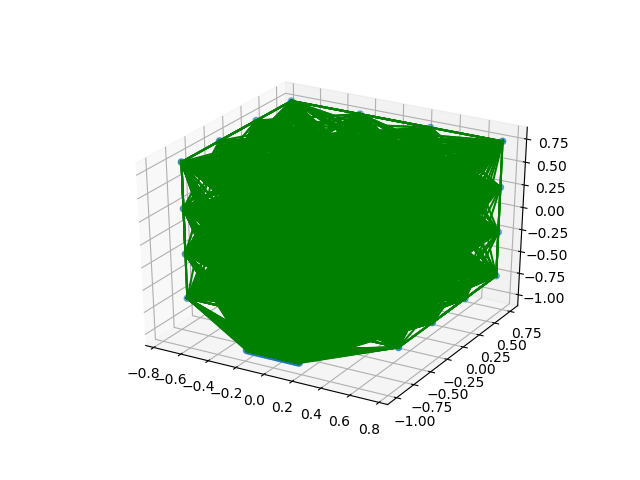
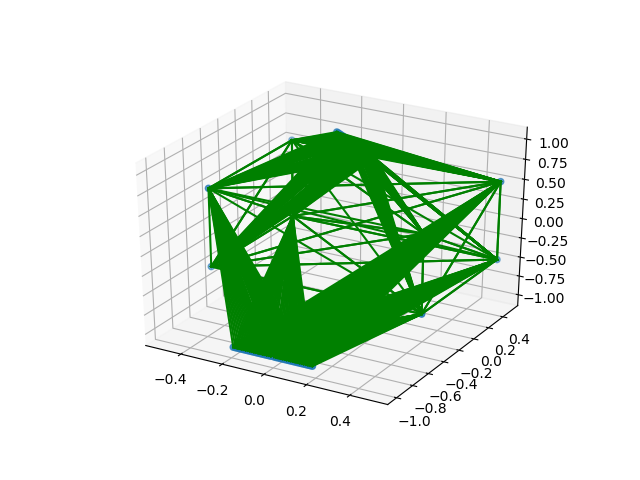
love it

diff --git a/trading_purples.py b/trading_purples.py
@@ -24,10 +24,10 @@ class PurpleTrader:
     # ES-HyperNEAT specific parameters.
     params = {"initial_depth": 2,
             "max_depth": 4,
-            "variance_threshold": 0.000013,
-            "band_threshold": 0.000013,
+            "variance_threshold": 0.0000013,
+            "band_threshold": 0.0000013,
             "iteration_level": 3,
-            "division_threshold": 0.000013,
+            "division_threshold": 0.0000013,
             "max_weight": 5.0,
             "activation": "tanh"}
 
@@ -59,7 +59,7 @@ class PurpleTrader:
             sign = sign *-1
             self.out_shapes.append((0.0-(sign*.005*ix), -1.0, -1.0))
             for ix2 in range(1,(self.inputs//self.outputs)+1):
-                self.in_shapes.append((0.0+(sign*.01*ix2), 0.0-(sign*.01*ix), 0.0-(sign*.01*ix2)))
+                self.in_shapes.append((0.0+(sign*.01*ix2), 0.0-(sign*.01*ix2), 1.0))
         self.subStrate = Substrate(self.in_shapes, self.out_shapes)
         self.epoch_len = 89
         #self.node_names = ['x1', 'y1', 'z1', 'x2', 'y2', 'z2', 'weight']
@@ -141,7 +141,7 @@ class PurpleTrader:
         for idx, g in genomes:
             [cppn] = create_cppn(g, config, self.leaf_names, ['cppn_out'])
             network = ESNetwork(self.subStrate, cppn, self.params)
-            net = network.create_phenotype_network_nd('current_net.png')
+            net = network.create_phenotype_network_nd()
             g.fitness = self.evaluate(net, network, r_start)
 
 
